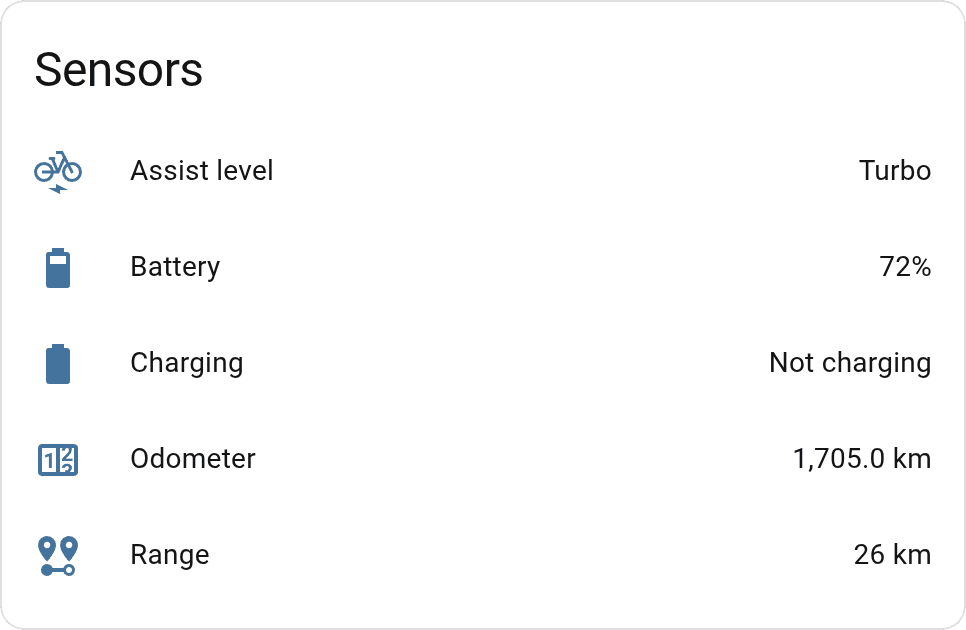
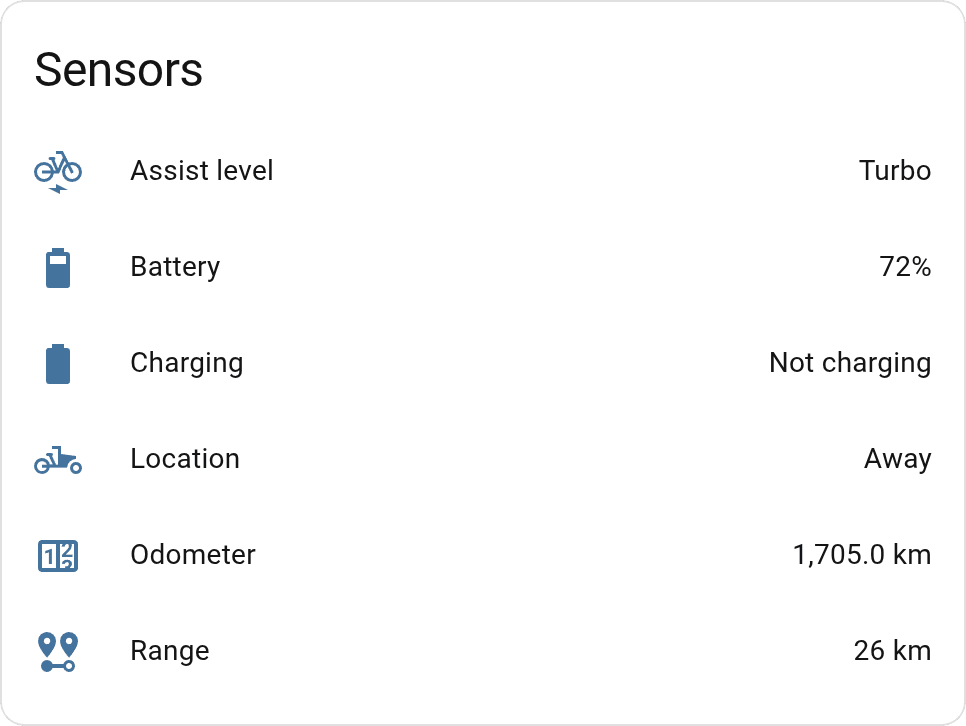
docs: update screenshots and entity table for location

diff --git a/README.md b/README.md
@@ -11,8 +11,8 @@ Arrow or Pon.
 
 <table>
   <tr>
-    <td><img src="https://raw.githubusercontent.com/koenhendriks/ha-urban-arrow/main/docs/screenshots/sensors.png" width="360" alt="Sensors: assist level, battery, charging, odometer and range"></td>
-    <td><img src="https://raw.githubusercontent.com/koenhendriks/ha-urban-arrow/main/docs/screenshots/diagnostic.png" width="360" alt="Diagnostic: last online, location, module battery and protection level"></td>
+    <td><img src="https://raw.githubusercontent.com/koenhendriks/ha-urban-arrow/main/docs/screenshots/sensors.png" width="360" alt="Sensors: assist level, battery, charging, location, odometer and range"></td>
+    <td><img src="https://raw.githubusercontent.com/koenhendriks/ha-urban-arrow/main/docs/screenshots/diagnostic.png" width="360" alt="Diagnostic: last online, location updated, module battery and protection level"></td>
   </tr>
   <tr>
     <td><img src="https://raw.githubusercontent.com/koenhendriks/ha-urban-arrow/main/docs/screenshots/controls.png" width="360" alt="Controls: flash lights button and theft protection switch"></td>
@@ -67,7 +67,8 @@ Requirements:
 | Last online | Sensor (diagnostic) | Last time the bike module was online |
 | Subscription end | Sensor (diagnostic, disabled) | End of the data subscription |
 | Charging | Binary sensor | |
-| Location | Device tracker | GPS position of the bike |
+| Location | Device tracker | GPS position of the bike, also shown on the Map |
+| Location updated | Sensor (diagnostic) | When the bike last reported its GPS position |
 | Flash lights | Button | Find your bike |
 | Theft protection | Switch | Arm or disarm theft detection |
 | Auto protection | Switch (config) | Arm automatically after riding |
